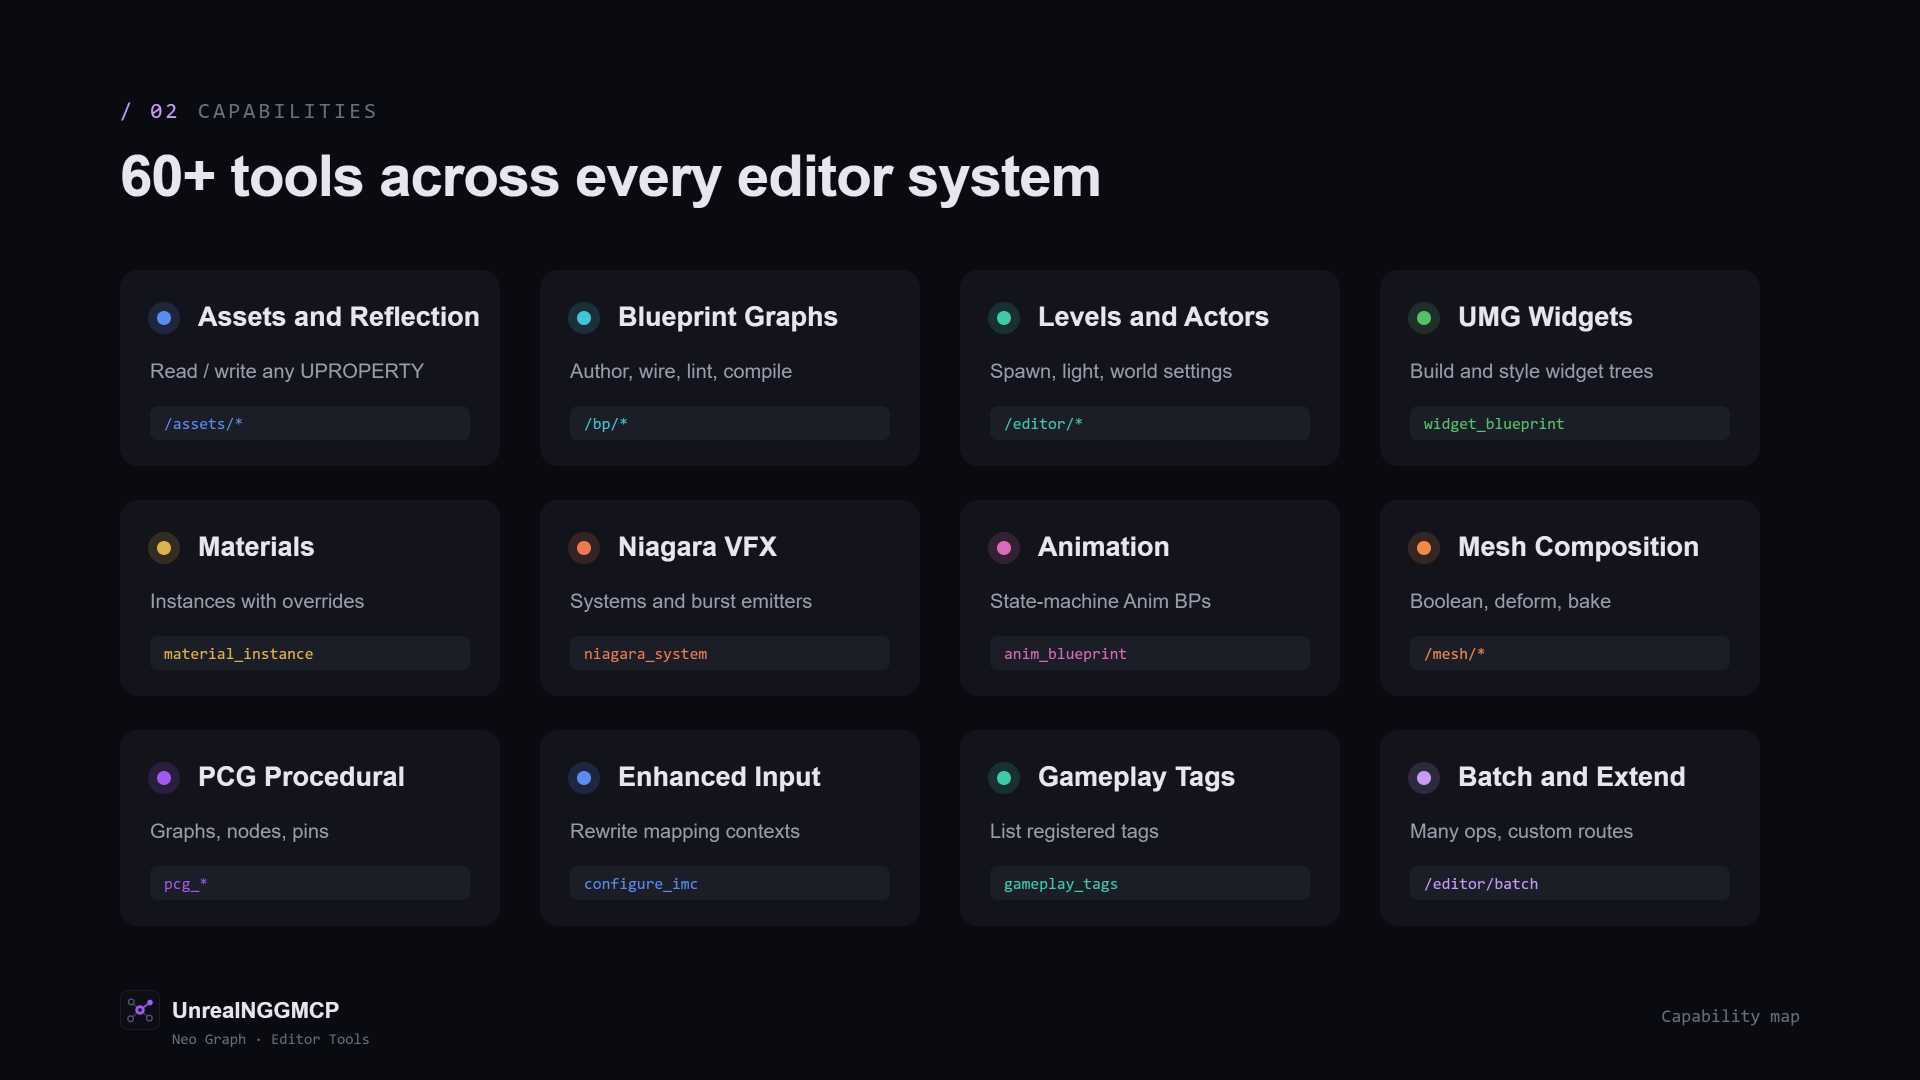
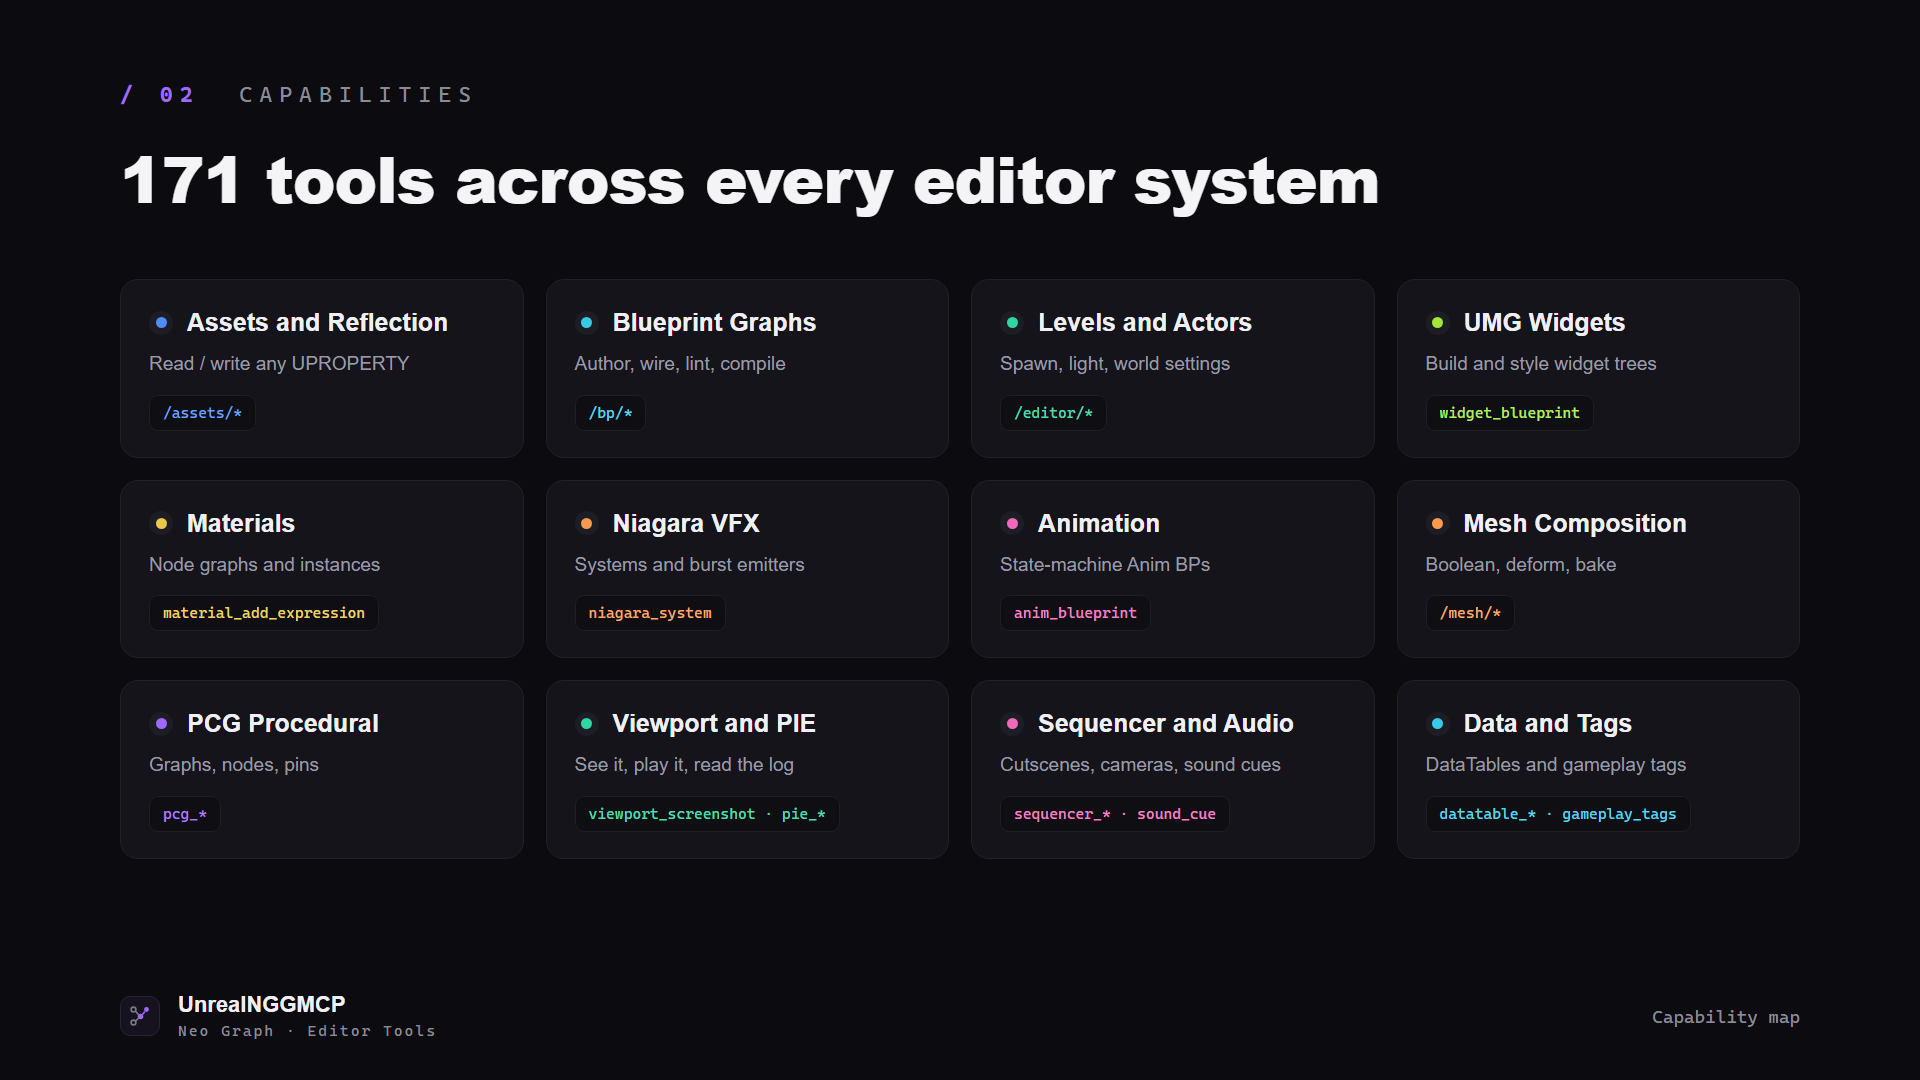
Sync docs to 171-tool release: refresh README + all catalog/cover images
- README: tool count 138 -> 171 and expanded category list
- Replace obsolete 07-all-138-tools.png with 07-all-171-tools.png
  (README already referenced the 171 filename -> image was broken on GitHub)
- Refresh regenerated cover/architecture/capabilities images (01, 02, 03)
- Add new 08-features.png

Kept the doc-repo's intentional de-linking of Tools/* and Docs/ChatWindow.md
references (those files are not part of this docs-only mirror).

Claude-Session: https://claude.ai/code/session_01133q26DmRSmHCyouQoDhVK

diff --git a/README.md b/README.md
@@ -447,9 +447,9 @@ These endpoints are driven in Python via `/editor/exec_python` under the hood, b
 
 ![Capabilities across every editor system — assets & reflection, Blueprint graphs, levels & actors, UMG, materials, Niagara, animation, mesh composition, PCG, Enhanced Input, gameplay tags, batch](Docs/images/03-capabilities.png)
 
-The `ue5-ngg` MCP server exposes 138 tools grouped into categories (editor lifecycle, assets, blueprints, BP graph authoring, UMG widgets, levels/actors, input, materials, animation, Niagara VFX, mesh composition, PCG, ADL, misc).
+The `ue5-ngg` MCP server exposes 171 tools grouped into categories (editor lifecycle, assets, blueprints, BP graph authoring, UMG widgets, levels/actors, input, materials, animation, Niagara VFX, mesh composition, PCG, sequencer, audio, DataTables, GAS, viewport/PIE feedback, ADL, misc).
 
-![138 tools, one MCP server — the full catalog grouped by system](Docs/images/07-all-138-tools.png)
+![171 tools, one MCP server — the full catalog grouped by system](Docs/images/07-all-171-tools.png)
 
 The **authoritative, always-current list** lives in the MCP server README:
 